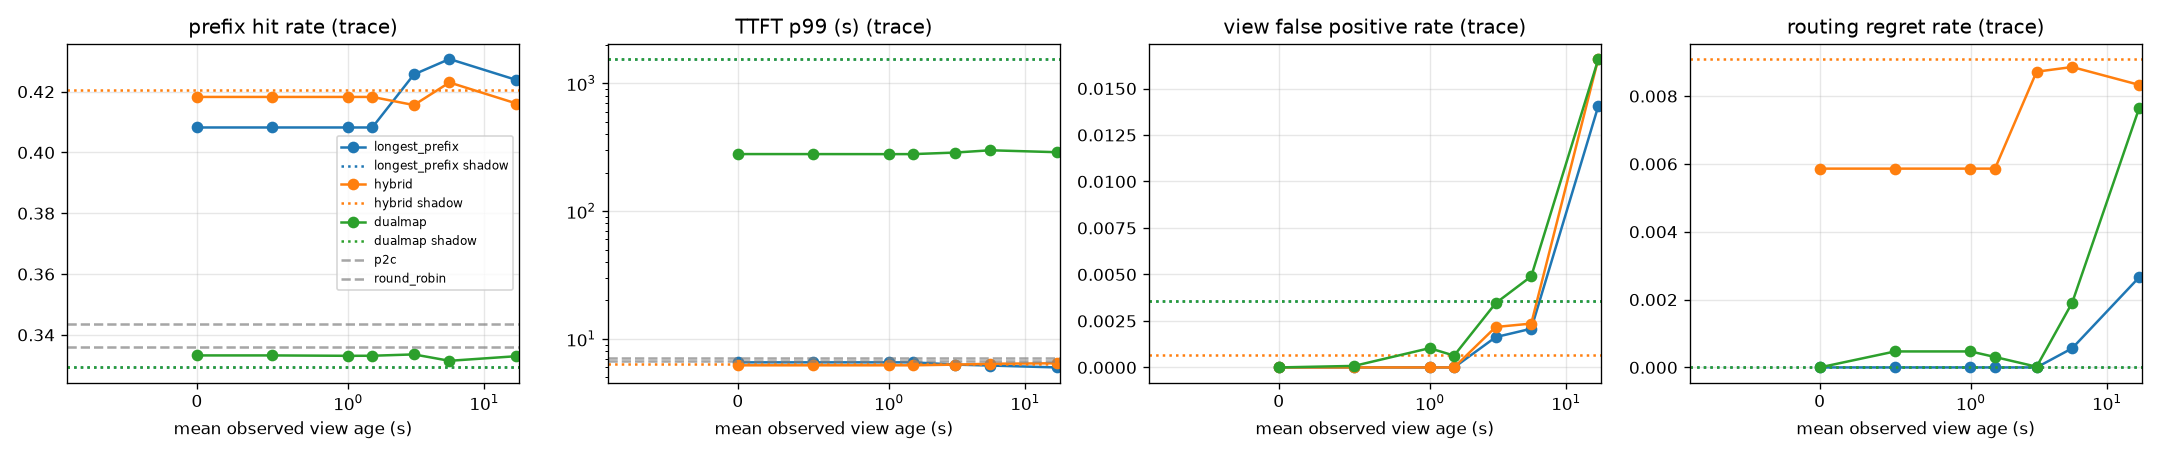
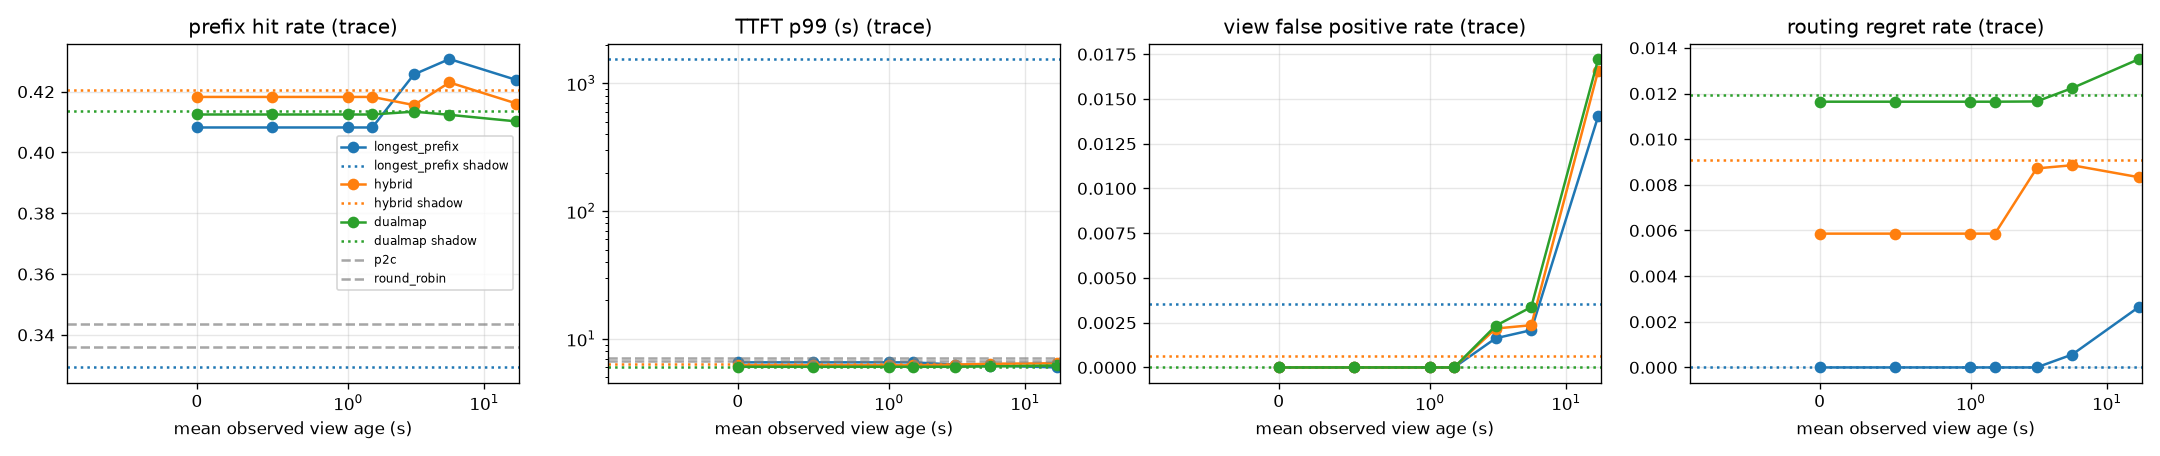
toolagent trace results with the deeper session key

diff --git a/notes/running_exp.md b/notes/running_exp.md
@@ -100,13 +100,14 @@ dualmap view fp                  0.001   0.002   0.001   0.000   0.037   0.037
 dualmap TTFT p99                 1.407   1.468   1.307   1.278   1.149   1.195
 
 
-- staleness sweep on the mooncake toolagent trace (2/9/26): first 6000 requests, replayed at their own timestamps (6.04 req/s over 993s), 512-token hash blocks, mean prompt 9.3k tokens (p50 6.4k), mean output 184, block reuse ceiling 0.553, 61% of repeats within 10s. 8 batched workers, max batch 64, chunked prefill 512, 1024 blocks/worker (524k tokens), *uncalibrated placeholder costs* 0.05ms/prompt token, 8ms/iter + 0.25ms/decode step (chosen so the perfect-view system is not saturated: longest prefix p50 0.19s). one seed (only p2c is random on a trace). cache turnover 113-139s. relative comparisons only until the mac calibration. scripts/staleness_sweep.py --trace, out/staleness_toolagent_trace_sweep.png/.csv
+- staleness sweep on the mooncake toolagent trace (2/9/26): first 6000 requests, replayed at their own timestamps (6.04 req/s over 993s), 512-token hash blocks, mean prompt 9.3k tokens (p50 6.4k), mean output 184, block reuse ceiling 0.553, 61% of repeats within 10s. 8 batched workers, max batch 64, chunked prefill 512, 1024 blocks/worker (524k tokens), *uncalibrated placeholder costs* 0.05ms/prompt token, 8ms/iter + 0.25ms/decode step (chosen so the perfect-view system is not saturated: longest prefix p50 0.19s). one seed (only p2c is random on a trace). cache turnover 113-139s. relative comparisons only until the mac calibration. scripts/staleness_sweep.py --trace --session-depth 16, out/staleness_toolagent_trace_sweep.png/.csv
     - staleness barely matters on this trace: a 17s-old view is 0.13 turnovers old, view fp ≤ 1.7%, regret ≤ 0.008. the synthetic sweep's "5% per turnover" holds up in order of magnitude; the turnover here is just 10x longer
     - longest prefix gets *better* with staleness: hit rate 0.408 → 0.431, queue cv 0.52 → 0.11, p99 6.56 → 5.98. with a fresh view it herds a burst of same-session requests onto the one warm worker; a stale view spreads them and the shared prefix ends up warm on several. herding relief is the dominant effect on a bursty trace
     - the cache-aware gain over blind is small here: hit rate 0.41-0.43 vs 0.34, p50 0.19-0.21s vs 0.30s, p99 ~6-7s for everyone (the bursts). the trace's reuse ceiling is 0.55 but the fleet holds 8192 blocks against ~180k distinct blocks per hour, so reuse is capacity-limited, not routing-limited
-    - dualmap is catastrophic: p99 279s, queue cv 1.73, hit rate 0.333 (= blind). two rings pin each session to two of eight workers, and this trace delivers sessions as same-instant bursts, so the pinned pair saturates while six workers idle. the robustness it showed on zipf traffic was robustness to *staleness*, not to *burstiness*. note: this is the two-ring core of dualmap without the paper's slo-aware fallback to load-aware routing, which exists for exactly this case
-    - the shadow view herds too: longest prefix + shadow p99 1545s, queue cv 2.64, hit rate below blind. the shadow sees the first request of a burst the moment it is routed, so every same-instant follower matches on that worker and piles on. with the perfect view the followers see nothing (the first is not admitted yet), tie, and spread by outstanding count. "shadow sees in-flight dispatches" was a small benefit on the synthetic workload and is the failure mode here. hybrid + shadow is fine (p99 6.3s) because its load term pushes back
-    - so on bursty agent traffic the ranking of view models inverts: fresh and precise is not the safe choice, and record-insert without a load term is the dangerous one
+    - first run had dualmap at p99 279s, queue cv 1.73, hit rate = blind, and i first blamed burstiness. wrong: the session key was the *first block*, and this trace has only 4 distinct first blocks in 6000 requests (a shared tool prompt; the conversation trace has exactly 1). the whole trace hashed onto two of eight workers. the synthetic workload never showed this because there block 0 *is* the prefix id. dualmap's paper grows the hashed prefix when a key gets hot for exactly this reason; the fix here is a deeper fixed key (--session-depth 16, 8k tokens: 5537 distinct keys, hottest 0.3%)
+    - with the deeper key dualmap is the best-balanced policy on this trace: hit rate 0.412 (longest prefix 0.408), p99 6.06s, queue cv 0.09 (longest prefix 0.52, hybrid 0.20), and flat across the whole staleness range. its hit rate does not move with age at all (0.412 → 0.410) because the view only ever ranks two hash-pinned candidates
+    - the shadow view herds, but only under longest prefix: longest prefix + shadow p99 1545s, queue cv 2.64, hit rate below blind. the shadow sees the first request of a burst the moment it is routed, so every same-instant follower matches on that worker and piles on; and because every request shares the tool prompt, the pile never stops. with the perfect view the followers see nothing (the first is not admitted yet), tie, and spread by outstanding count. "shadow sees in-flight dispatches" was a small benefit on the synthetic workload and is the failure mode here. hybrid + shadow (p99 6.3s) and dualmap + shadow (5.98s) are fine: a load term or a hash cap stops the cascade
+    - so: record-insert plus pure longest-prefix ranking is the dangerous combination on real traces, and a universal shared prefix is what makes it explode. anything that bounds the candidate set (hash) or pushes back on load (hybrid) is safe
 
 - toolagent trace                 P=0     0.5      1       2       5      10      30   shadow
 mean view age (s)               0.00    0.50    1.00    1.50    3.04    5.54   17.20    0.00
@@ -115,7 +116,8 @@ longest prefix TTFT p99 (s)     6.56    6.56    6.56    6.56    6.30    6.19    
 longest prefix queue cv         0.52    0.52    0.52    0.52    0.26    0.12    0.11    2.64
 hybrid hit rate                41.8%   41.8%   41.8%   41.8%   41.6%   42.3%   41.6%   42.1%
 hybrid TTFT p99 (s)             6.22    6.22    6.22    6.22    6.29    6.39    6.45    6.33
-dualmap hit rate               33.3%   33.3%   33.3%   33.3%   33.4%   33.1%   33.3%   32.9%
-dualmap TTFT p99 (s)          279.0   279.0   278.7   278.9   286.7   298.8   288.6  1545.6
-dualmap queue cv                1.73    1.73    1.73    1.73    1.73    1.73    1.73    2.64
+dualmap hit rate (depth 16)    41.2%   41.2%   41.2%   41.2%   41.3%   41.2%   41.0%   41.4%
+dualmap TTFT p99 (s)            6.06    6.06    6.06    6.06    6.06    6.09    6.20    5.98
+dualmap queue cv                0.09    0.09    0.09    0.09    0.09    0.09    0.09    0.09
+(dualmap with the one-block key, for the record: hit 33.3%, p99 279s, queue cv 1.73 at every age)
 (blind reference: p2c hit 33.6% p99 6.76, round robin hit 34.4% p99 7.06)
